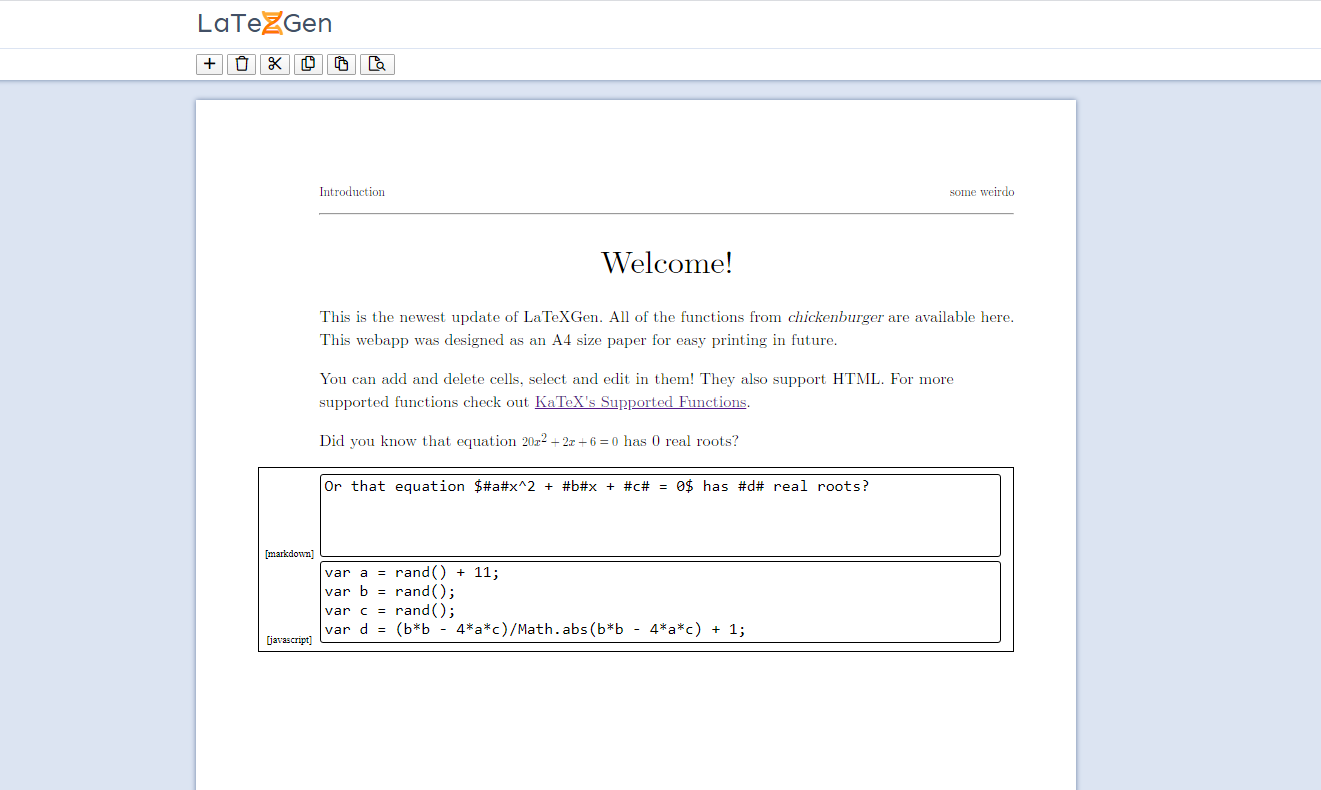
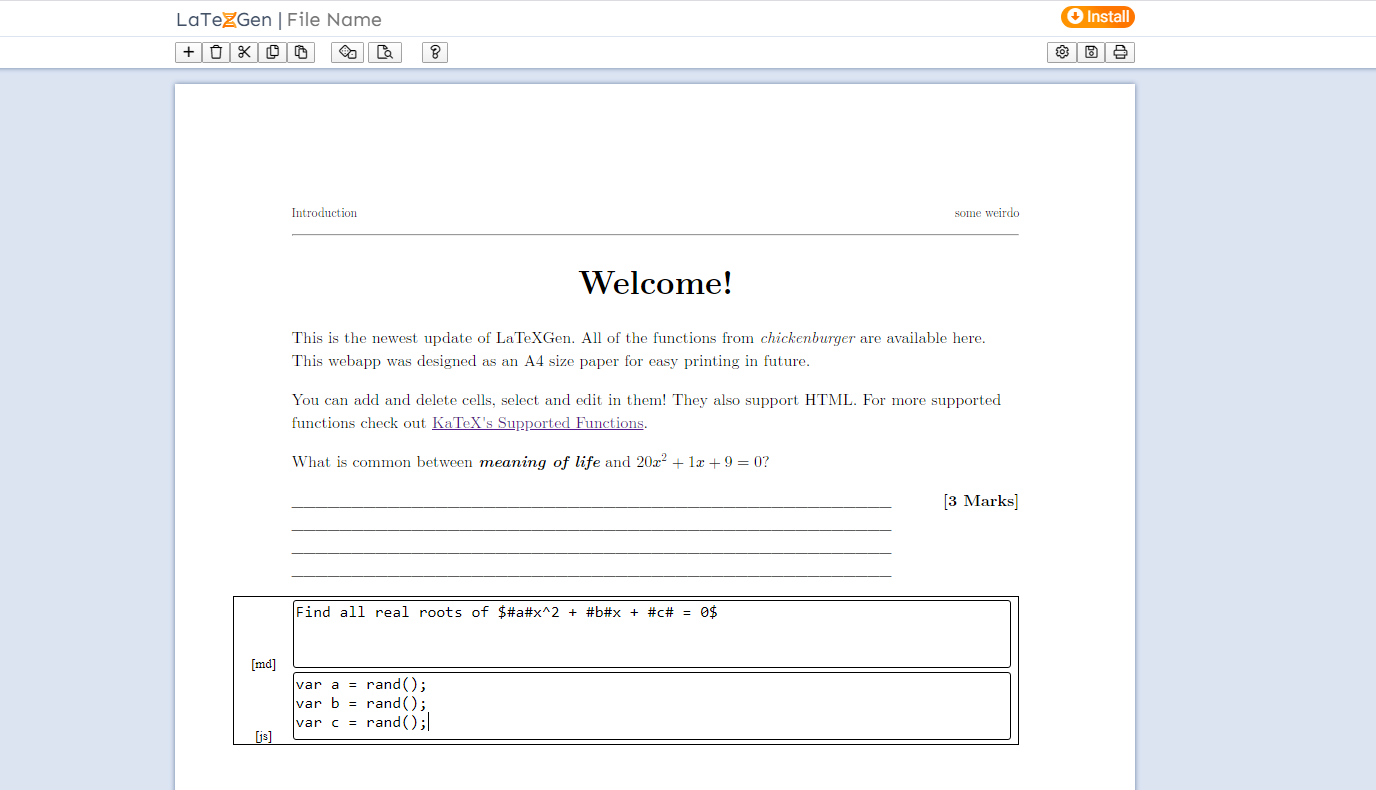
Added Learn Link; Changed home image

diff --git a/LaTeXGen/learn/style.css b/LaTeXGen/learn/style.css
@@ -9,20 +9,14 @@
 }
 html {
   scroll-behavior: smooth;
-  -ms-scroll-translation: 4000ms;
+  -ms-scroll-translation: 2000ms;
 }
 body{
-    margin:0;
+    margin: 0;
     padding: 0;
     font-family: Arial;
     background-color: var(--bg-color);
     height: 200vh;
-}
-img{
-    width:72vw;
-    min-width:350px;
-    box-shadow: 0 0 10px var(--bg-color-2);
-    margin-bottom: 5px;
 }
 nav{
     padding-top:0; 
@@ -45,16 +39,7 @@ nav .logo{
     text-decoration: none;
 }
 main{
-    box-shadow: 0 0 -6px 0 var(--bg-color-3);
-    margin-top:3rem;
-    background: linear-gradient(45deg, var(--fa-primary-color) 45%, var(--fa-secondary-color) 65%);
-}
-h2{
-    color:var(--bg-color);
-    font-weight: 700;
-    font-size: 34px;
-    line-height: 40px;
-    font-family: 'Noto Sans', sans-serif;
+    margin:5rem 25vw 0 25vw;
 }
 
 @media only screen and (max-width:600px){ /*mobile*/
@@ -74,14 +59,7 @@ h2{
     }
     p{
         width:85vw;
-    }  
-    nav:hover .nav-link{
-        flex:0;
-        display: block;
-        width: 100vw;
-        border:1px whitesmoke solid;
-
-    }
+    }     
 }
 @media only screen and (min-width:600px){ /*computer*/
     nav .logo{
@@ -115,19 +93,4 @@ h2{
     p{
         width:38vw;
     }
-}
-
-h3{
-    color:var(--bg-color-2);
-    font-size: 30px;
-    font-weight: 700;
-}
-p{
-    color:var(--bg-color-3);
-    font-size: 16px;
-    line-height: 26px;
-}
-
-.menu:hover{
-    
 }

diff --git a/LaTeXGen/learn/index.html b/LaTeXGen/learn/index.html
@@ -1,0 +1,30 @@
+<!DOCTYPE html>
+<html>
+<head>
+	<title>Learn | LaTeXGen</title>
+	<link rel="stylesheet" type="text/css" href="style.css">
+	<link rel="icon" type="image/ico" href="/LaTeXGen/images/favicon.ico">
+    <link href="https://fonts.googleapis.com/css?family=Sen&display=swap" rel="stylesheet">
+    <link href="https://fonts.googleapis.com/css?family=Noto+Sans&display=swap" rel="stylesheet">
+    <link href="/home/fontawesome/pro.min.css" rel="stylesheet" type="text/css">
+    <meta name="viewport" content="width=device-width">
+</head>
+<body>
+    <span id="top" style="position:absolute; top:0;"></span>
+    <nav>
+        <div class="menu"><i class="fad fa-bars"></i></div>
+        <a href="/LaTeXGen/" class="logo">LaTe<i class="fad fa-dna"></i>Gen</a>
+        <div style="flex:1;">
+            <a class="nav-link" href="/LaTeXGen/#about">About</a>
+            <a class="nav-link" href="">Learn</a>
+            <a class="nav-link" href="/LaTeXGen/app">App</a>
+            <!-- <a class="nav-link" href="#templates">Templates</a> -->
+        </div>
+        <a class="nav-link" href="https://github.com/nomomon/nomomon.github.io/tree/master/LaTeXGen">GitHub</a>
+    </nav>
+    <main>
+        <center style="color:var(--bg-color-2);"><h1>Coming Soon!</h1></center>
+    </main>
+</body>
+<script src="script.js"></script>
+</html>

diff --git a/LaTeXGen/app/style.css b/LaTeXGen/app/style.css
@@ -31,6 +31,10 @@
 :root{
     --fa-primary-color:#FF7600;
     --fa-secondary-color:#FF9400;
+    
+    --one:#FF7600;
+    --two:#FF9400;;
+    
     --bg-color:#FFFFFF;
     --bg-color-1:#DCE4F2;
     --bg-color-2:#99A0A8;
@@ -62,6 +66,7 @@ body{
 .top input{
     font-family: 'Sen', sans-serif;
     font-size:2.5vh;
+    width:30vw;
     border:none;
     outline: none;
     color:#425066;
@@ -82,6 +87,28 @@ nav .settings{
 }
 nav .settings i{
     font-size:14px;
+}
+#install{
+    float:right;
+    border-radius: 2vh;
+    text-align: center;
+    font-size: 2vh;
+    font-family: Roboto;
+    padding: 0.1875vh 0.75vh 0.1875vh 0.75vh;
+    color:white;
+    background: linear-gradient(45deg, var(--two) 45%, var(--one) 65%);
+    display: none;
+
+    --fa-primary-color:var(--one);
+    --fa-secondary-color:white;
+    --fa-secondary-opacity:1;
+}
+#install, nav button{
+    transition: 200ms;
+}
+#install:hover, nav button:hover{
+    transition: 200ms;
+    opacity:0.8;
 }
 /* ======================Main and Page ========================= */
 main{
@@ -174,6 +201,11 @@ cell selected
         --page-width:96vw;
         --page-font-size:6px;
     }    
+}
+@media all and (display-mode: standalone) {
+  #install{
+      display:none !important;
+  }
 }
 @media print{
     nav, ::-webkit-scrollbar{

diff --git a/LaTeXGen/index.html b/LaTeXGen/index.html
@@ -16,7 +16,7 @@
         <a href="#top" class="logo">LaTe<i class="fad fa-dna"></i>Gen</a>
         <div style="flex:1;">
             <a class="nav-link" href="#about">About</a>
-            <!-- <a class="nav-link" href="#learn">Learn</a> -->
+            <a class="nav-link" href="learn">Learn</a>
             <a class="nav-link" href="/LaTeXGen/app">App</a>
             <!-- <a class="nav-link" href="#templates">Templates</a> -->
         </div>
@@ -28,6 +28,15 @@
         <br>
         <center><img src="/LaTeXGen/images/home.png"></center>
     </main>
+    <svg width="100vw" height="100">
+        <defs>
+            <linearGradient id="grad1" x1="0%" y1="0%" x2="100%" y2="0%">
+                <stop offset="0%" style="stop-color:#FF7600;stop-opacity:1" />
+                <stop offset="100%" style="stop-color:#FF9400;stop-opacity:1" />
+            </linearGradient>
+        </defs>
+        <path d="M 0 0 L 0 50 Q 400 100 800 50 Q 1200 0 1600 50 L 1600 0 L 0 0" fill="url(#grad1)">
+    </svg>
     <div id="about">
         <center>
             <h3>About</h3>

diff --git a/LaTeXGen/app/index.html b/LaTeXGen/app/index.html
@@ -12,6 +12,7 @@
 	<link rel="icon" type="image/ico" href="/LaTeXGen/images/favicon.ico">
     <link href="https://fonts.googleapis.com/css?family=Sen&display=swap" rel="stylesheet">
     <link href="https://fonts.googleapis.com/css?family=Noto+Sans&display=swap" rel="stylesheet">
+    <link href="https://fonts.googleapis.com/css?family=Roboto&display=swap" rel="stylesheet">
     <link href="/home/fontawesome/pro.min.css" rel="stylesheet" type="text/css">
 <!-- app -->
     <meta name="viewport" content="width=device-width, initial-scale=1.0, user-scalable=yes">
@@ -23,6 +24,7 @@
         <div class="top">
             <a href="/LaTeXGen/" target="_blank" class="logo">LaTe<i class="fad fa-dna"></i>Gen | </a>
             <input id="fileName" placeholder="File Name"></input>
+            <div id="install"><i class="fad fa-arrow-alt-circle-down"></i> Install</div>
         </div>
         <div class="settings">
             <button onclick="addCell()" title="insert cell bellow" style="float:left;"><i class="far fa-plus"></i></button>

diff --git a/LaTeXGen/app/script.js b/LaTeXGen/app/script.js
@@ -163,3 +163,26 @@ function rand(t, b, e){
     if(t == "int") return Math.floor(e - Math.random()*(e - b));
     if(t == "double") return e - Math.random()*(e - b)
 }
+
+
+let deferredPrompt;
+window.addEventListener('beforeinstallprompt', (e) => {
+    // Prevent the mini-infobar from appearing on mobile
+    e.preventDefault();
+    deferredPrompt = e;
+    document.querySelector("#install").style.display = "block";
+    document.querySelector("#install").addEventListener('click', (e) => {
+        // Hide the app provided install promotion
+        document.querySelector("#install").style.display = "none";
+        // Show the install prompt
+        deferredPrompt.prompt();
+        // Wait for the user to respond to the prompt
+        deferredPrompt.userChoice.then((choiceResult) => {
+            if (choiceResult.outcome === 'accepted') {
+            console.log('User accepted the install prompt');
+            } else {
+            console.log('User dismissed the install prompt');
+            }
+        })
+    });
+});
